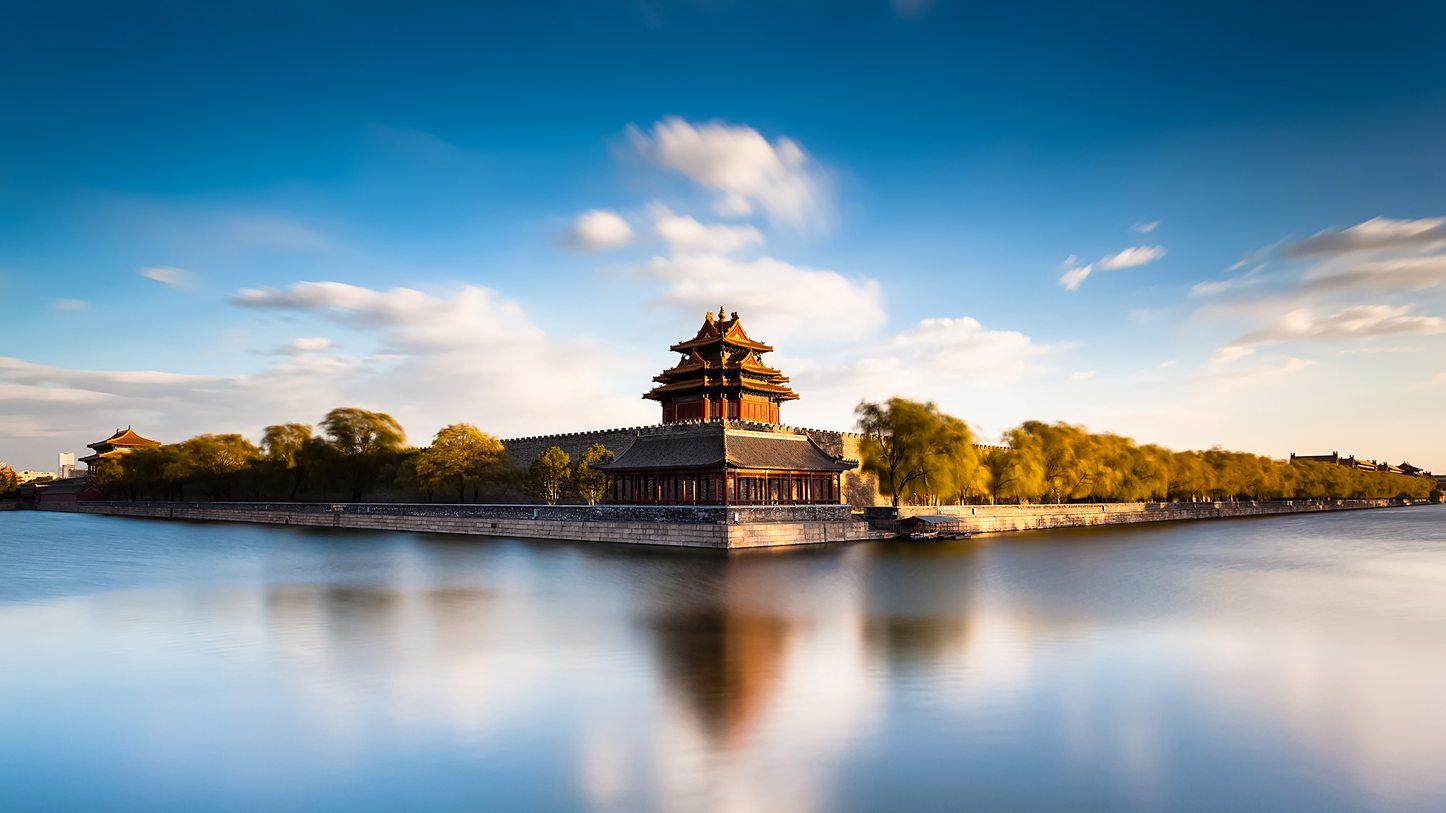
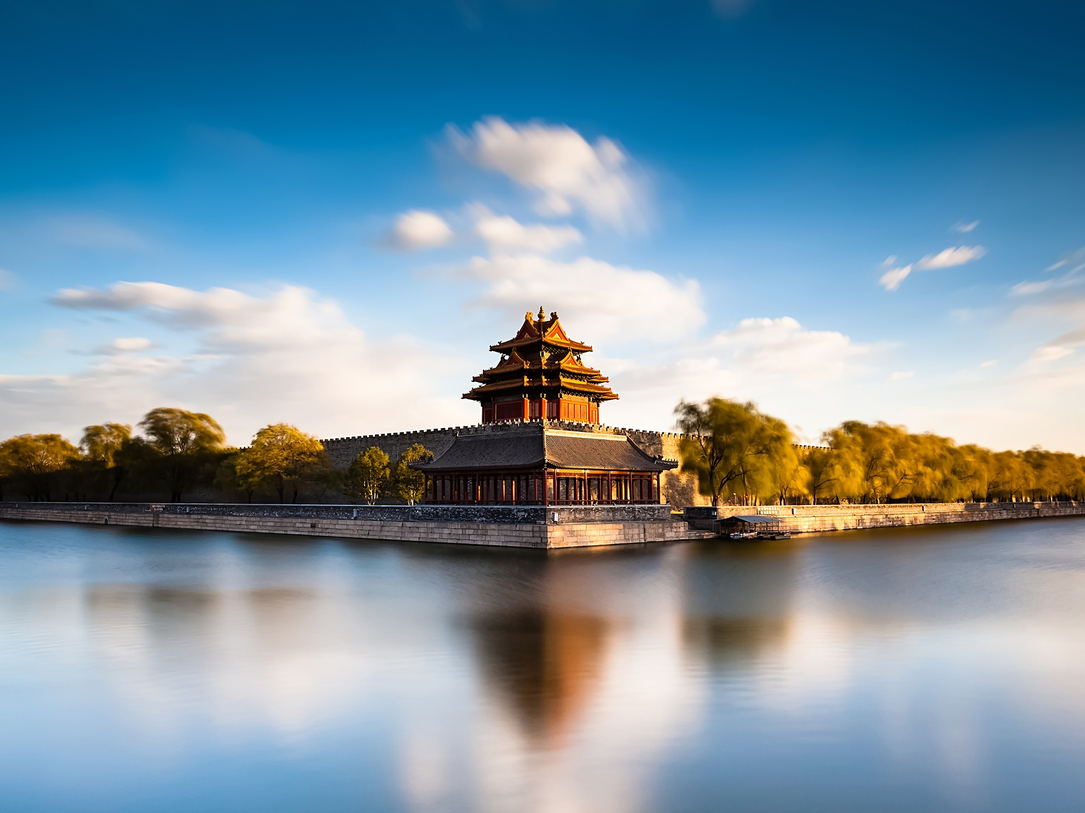
cropped all country image to 4:3 size

diff --git a/P1/index.html b/P1/index.html
@@ -117,45 +117,81 @@
             </div>
         </div>
     </div>
-    <!-- cards based on Bootstraps Docs -->
+    <!-- cards based on https://mdbootstrap.com/docs/standard/extended/card-deck/ -->
     <div class="index-cards">
         <h2 class="text-center card-index-intro">Inspiration for your next trip</h2>
-        <div class="row row-cols-1 row-cols-md-2 g-4">
+        <div class="row row-cols-1 row-cols-md-3 g-4">
             <div class="col">
-              <div class="card">
-                <img src="..." class="card-img-top" alt="...">
+              <div class="card h-100">
+                <img src="image/thailand.jpg" class="card-img-top" alt="thailand" />
                 <div class="card-body">
-                  <h5 class="card-title">Card title</h5>
-                  <p class="card-text">This is a longer card with supporting text below as a natural lead-in to additional content. This content is a little bit longer.</p>
+                  <h5 class="card-title">Thailand</h5>
+                  <p class="card-text">
+                    Come to enjoy sunshine and beaches.
+                  </p>
                 </div>
               </div>
             </div>
             <div class="col">
-              <div class="card">
-                <img src="..." class="card-img-top" alt="...">
+              <div class="card h-100">
+                <img src="image/london.jpg" class="card-img-top" alt="london" />
                 <div class="card-body">
-                  <h5 class="card-title">Card title</h5>
-                  <p class="card-text">This is a longer card with supporting text below as a natural lead-in to additional content. This content is a little bit longer.</p>
+                  <h5 class="card-title">London</h5>
+                  <p class="card-text">
+                    Home to a veritable plethora of landmarks.
+                  </p>
                 </div>
               </div>
             </div>
             <div class="col">
-              <div class="card">
-                <img src="..." class="card-img-top" alt="...">
+              <div class="card h-100">
+                <img src="https://mdbcdn.b-cdn.net/img/new/standard/city/043.webp" class="card-img-top"
+                  alt="Los Angeles Skyscrapers" />
                 <div class="card-body">
                   <h5 class="card-title">Card title</h5>
-                  <p class="card-text">This is a longer card with supporting text below as a natural lead-in to additional content.</p>
+                  <p class="card-text">This is a longer card with supporting text below as a natural lead-in to
+                    additional content.</p>
                 </div>
               </div>
             </div>
             <div class="col">
-              <div class="card">
-                <img src="..." class="card-img-top" alt="...">
+              <div class="card h-100">
+                <img src="https://mdbcdn.b-cdn.net/img/new/standard/city/044.webp" class="card-img-top"
+                  alt="Skyscrapers" />
                 <div class="card-body">
                   <h5 class="card-title">Card title</h5>
-                  <p class="card-text">This is a longer card with supporting text below as a natural lead-in to additional content. This content is a little bit longer.</p>
+                  <p class="card-text">
+                    This is a longer card with supporting text below as a natural lead-in to
+                    additional content. This content is a little bit longer.
+                  </p>
                 </div>
               </div>
+            </div>
+            <div class="col">
+                <div class="card h-100">
+                  <img src="https://mdbcdn.b-cdn.net/img/new/standard/city/044.webp" class="card-img-top"
+                    alt="Skyscrapers" />
+                  <div class="card-body">
+                    <h5 class="card-title">Card title</h5>
+                    <p class="card-text">
+                      This is a longer card with supporting text below as a natural lead-in to
+                      additional content. This content is a little bit longer.
+                    </p>
+                  </div>
+                </div>
+            </div>
+            <div class="col">
+                <div class="card h-100">
+                  <img src="https://mdbcdn.b-cdn.net/img/new/standard/city/044.webp" class="card-img-top"
+                    alt="Skyscrapers" />
+                  <div class="card-body">
+                    <h5 class="card-title">Card title</h5>
+                    <p class="card-text">
+                      This is a longer card with supporting text below as a natural lead-in to
+                      additional content. This content is a little bit longer.
+                    </p>
+                  </div>
+                </div>
             </div>
         </div>
     </div>
